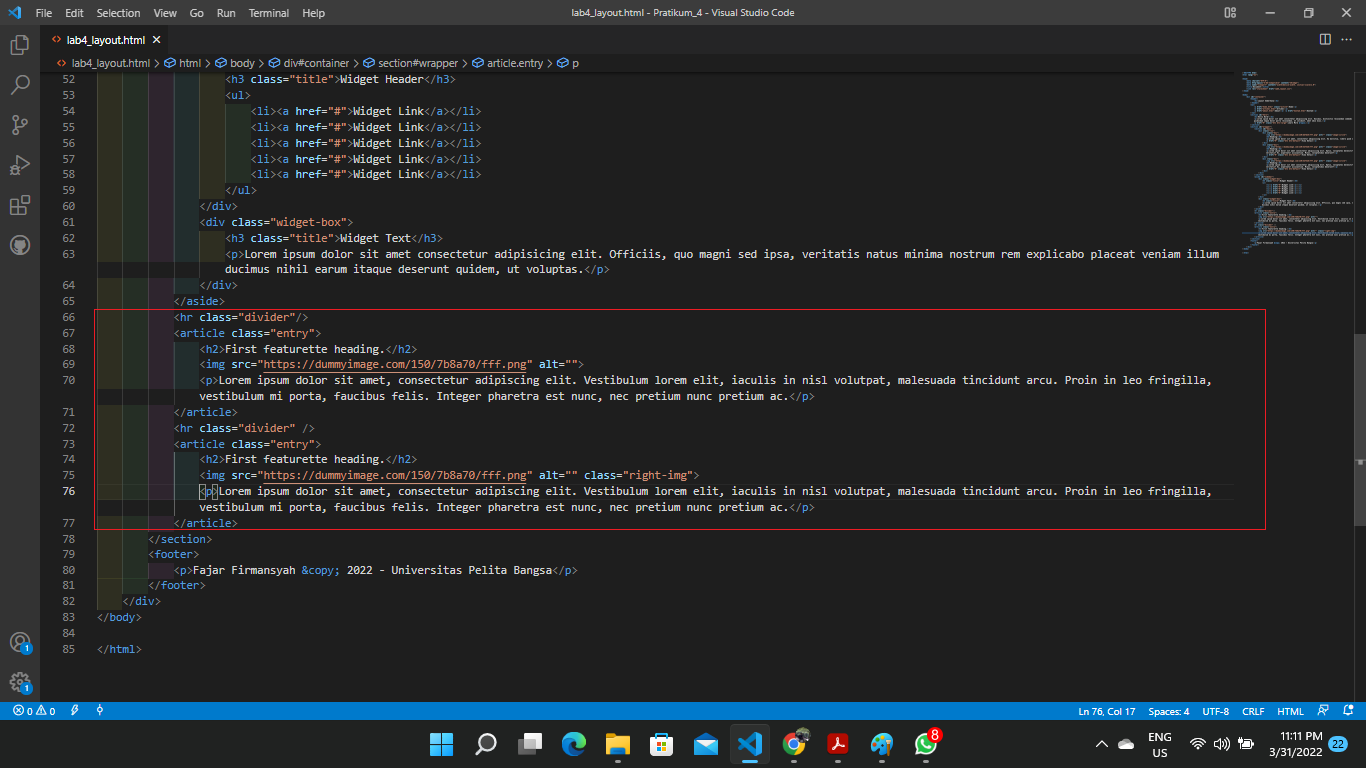
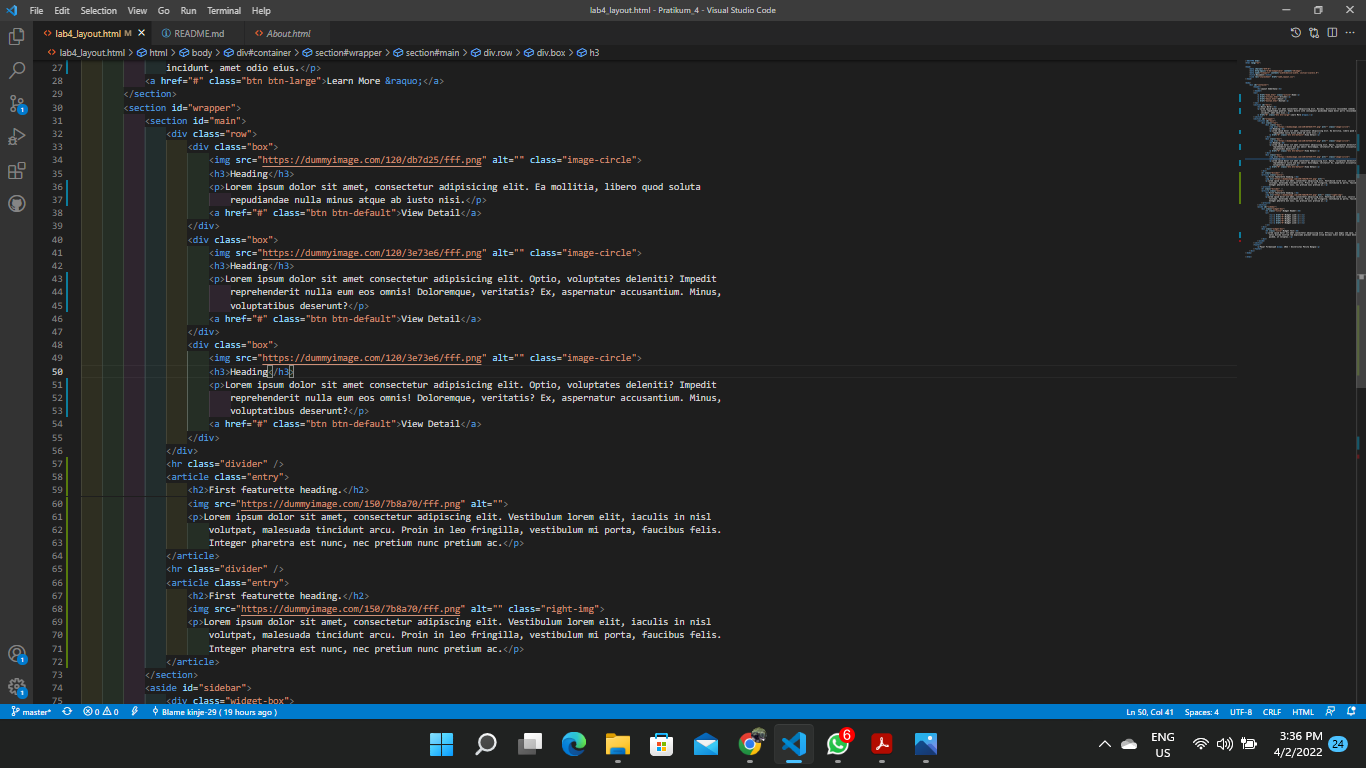
Gambar

Changed region(s): [[0.0, 0.0, 1.0, 1.0], [0.4305, 0.0, 0.5842, 0.0312], [0.9531, 0.0, 0.9839, 0.0625]]

diff --git a/lab4_layout.html b/lab4_layout.html
@@ -15,14 +15,16 @@
             <h1>Layout Sederhana</h1>
         </header>
         <nav>
-            <a href="home.html" class="active">Home</a> 
-            <a href="artikel.html">Artikel</a> 
-            <a href="About.html">About</a> 
-            <a href="kontak.html">Kontak</a> 
+            <a href="home.html" class="active">Home</a>
+            <a href="artikel.html">Artikel</a>
+            <a href="About.html">About</a>
+            <a href="kontak.html">Kontak</a>
         </nav>
         <section id="hero">
             <h1>Hello Word!</h1>
-            <p>Lorem ipsum dolor sit amet consectetur adipisicing elit. Ducimus, distinctio recusandae commodi quam nulla repudiandae quaerat. Sequi dolore iste consequatur quibusdam neque dolor porro recusandae, at incidunt, amet odio eius.</p>
+            <p>Lorem ipsum dolor sit amet consectetur adipisicing elit. Ducimus, distinctio recusandae commodi quam
+                nulla repudiandae quaerat. Sequi dolore iste consequatur quibusdam neque dolor porro recusandae, at
+                incidunt, amet odio eius.</p>
             <a href="#" class="btn btn-large">Learn More &raquo;</a>
         </section>
         <section id="wrapper">
@@ -31,22 +33,43 @@
                     <div class="box">
                         <img src="https://dummyimage.com/120/db7d25/fff.png" alt="" class="image-circle">
                         <h3>Heading</h3>
-                        <p>Lorem ipsum dolor sit amet, consectetur adipisicing elit. Ea mollitia, libero quod soluta repudiandae nulla minus atque ab iusto nisi.</p>
+                        <p>Lorem ipsum dolor sit amet, consectetur adipisicing elit. Ea mollitia, libero quod soluta
+                            repudiandae nulla minus atque ab iusto nisi.</p>
                         <a href="#" class="btn btn-default">View Detail</a>
                     </div>
                     <div class="box">
                         <img src="https://dummyimage.com/120/3e73e6/fff.png" alt="" class="image-circle">
                         <h3>Heading</h3>
-                        <p>Lorem ipsum dolor sit amet consectetur adipisicing elit. Optio, voluptates deleniti? Impedit reprehenderit nulla eum eos omnis! Doloremque, veritatis? Ex, aspernatur accusantium. Minus, voluptatibus deserunt?</p>
+                        <p>Lorem ipsum dolor sit amet consectetur adipisicing elit. Optio, voluptates deleniti? Impedit
+                            reprehenderit nulla eum eos omnis! Doloremque, veritatis? Ex, aspernatur accusantium. Minus,
+                            voluptatibus deserunt?</p>
                         <a href="#" class="btn btn-default">View Detail</a>
                     </div>
                     <div class="box">
                         <img src="https://dummyimage.com/120/3e73e6/fff.png" alt="" class="image-circle">
                         <h3>Heading</h3>
-                        <p>Lorem ipsum dolor sit amet consectetur adipisicing elit. Optio, voluptates deleniti? Impedit reprehenderit nulla eum eos omnis! Doloremque, veritatis? Ex, aspernatur accusantium. Minus, voluptatibus deserunt?</p>
+                        <p>Lorem ipsum dolor sit amet consectetur adipisicing elit. Optio, voluptates deleniti? Impedit
+                            reprehenderit nulla eum eos omnis! Doloremque, veritatis? Ex, aspernatur accusantium. Minus,
+                            voluptatibus deserunt?</p>
                         <a href="#" class="btn btn-default">View Detail</a>
                     </div>
                 </div>
+                <hr class="divider" />
+                <article class="entry">
+                    <h2>First featurette heading.</h2>
+                    <img src="https://dummyimage.com/150/7b8a70/fff.png" alt="">
+                    <p>Lorem ipsum dolor sit amet, consectetur adipiscing elit. Vestibulum lorem elit, iaculis in nisl
+                        volutpat, malesuada tincidunt arcu. Proin in leo fringilla, vestibulum mi porta, faucibus felis.
+                        Integer pharetra est nunc, nec pretium nunc pretium ac.</p>
+                </article>
+                <hr class="divider" />
+                <article class="entry">
+                    <h2>First featurette heading.</h2>
+                    <img src="https://dummyimage.com/150/7b8a70/fff.png" alt="" class="right-img">
+                    <p>Lorem ipsum dolor sit amet, consectetur adipiscing elit. Vestibulum lorem elit, iaculis in nisl
+                        volutpat, malesuada tincidunt arcu. Proin in leo fringilla, vestibulum mi porta, faucibus felis.
+                        Integer pharetra est nunc, nec pretium nunc pretium ac.</p>
+                </article>
             </section>
             <aside id="sidebar">
                 <div class="widget-box">
@@ -61,21 +84,11 @@
                 </div>
                 <div class="widget-box">
                     <h3 class="title">Widget Text</h3>
-                    <p>Lorem ipsum dolor sit amet consectetur adipisicing elit. Officiis, quo magni sed ipsa, veritatis natus minima nostrum rem explicabo placeat veniam illum ducimus nihil earum itaque deserunt quidem, ut voluptas.</p>
+                    <p>Lorem ipsum dolor sit amet consectetur adipisicing elit. Officiis, quo magni sed ipsa, veritatis
+                        natus minima nostrum rem explicabo placeat veniam illum ducimus nihil earum itaque deserunt
+                        quidem, ut voluptas.</p>
                 </div>
             </aside>
-            <hr class="divider"/>
-            <article class="entry">
-                <h2>First featurette heading.</h2> 
-                <img src="https://dummyimage.com/150/7b8a70/fff.png" alt=""> 
-                <p>Lorem ipsum dolor sit amet, consectetur adipiscing elit. Vestibulum lorem elit, iaculis in nisl volutpat, malesuada tincidunt arcu. Proin in leo fringilla, vestibulum mi porta, faucibus felis. Integer pharetra est nunc, nec pretium nunc pretium ac.</p>
-            </article> 
-            <hr class="divider" /> 
-            <article class="entry"> 
-                <h2>First featurette heading.</h2> 
-                <img src="https://dummyimage.com/150/7b8a70/fff.png" alt="" class="right-img"> 
-                <p>Lorem ipsum dolor sit amet, consectetur adipiscing elit. Vestibulum lorem elit, iaculis in nisl volutpat, malesuada tincidunt arcu. Proin in leo fringilla, vestibulum mi porta, faucibus felis. Integer pharetra est nunc, nec pretium nunc pretium ac.</p>
-            </article>
         </section>
         <footer>
             <p>Fajar Firmansyah &copy; 2022 - Universitas Pelita Bangsa</p>
